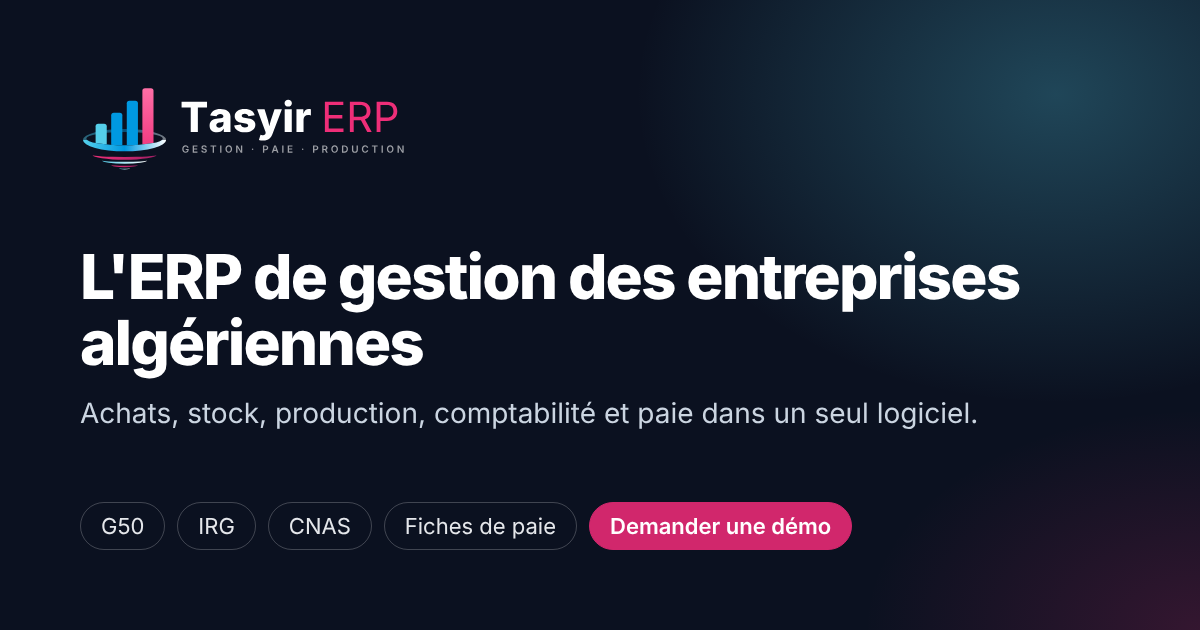
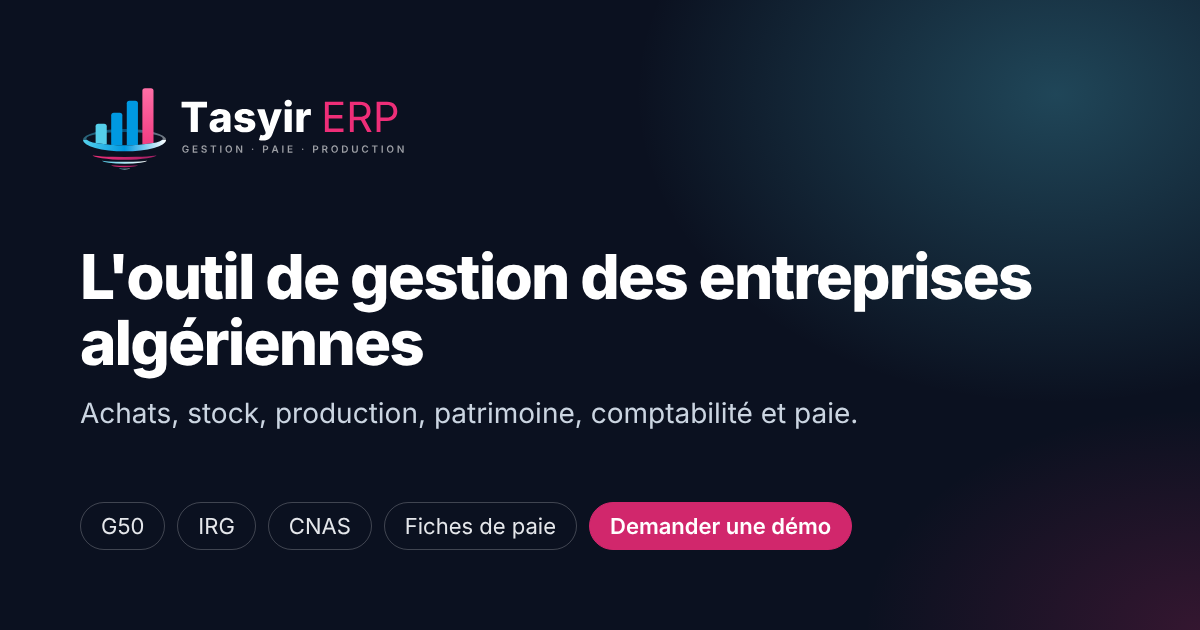
« L'outil de gestion des entreprises algériennes » et ajout du patrimoine
Titre principal, balise title, description Google, titre et description de partage, image Open Graph.

Claude-Session: https://claude.ai/code/session_014Hp9wdBxYdTzQ1qRTPQ2uS

Changed region(s): [[0.0925, 0.3921, 0.8633, 0.5127], [0.37, 0.6333, 0.8017, 0.6937]]

diff --git a/public/index.html b/public/index.html
@@ -3,8 +3,8 @@
 <head>
   <meta charset="utf-8">
   <meta name="viewport" content="width=device-width, initial-scale=1, viewport-fit=cover">
-  <title>Tasyir ERP – L'ERP de gestion des entreprises algériennes</title>
-  <meta name="description" content="L'ERP de gestion des entreprises algériennes : achats, stock, production, compta et paie. G50, IRG et CNAS générés automatiquement. Utilisé par El Afia Catering.">
+  <title>Tasyir ERP – L'outil de gestion des entreprises algériennes</title>
+  <meta name="description" content="L'outil de gestion des entreprises algériennes : achats, stock, production, patrimoine, compta et paie. G50, IRG et CNAS automatiques. Utilisé par El Afia Catering.">
   <link rel="canonical" href="https://tasyirerp.com/">
   <link rel="alternate" hreflang="fr-DZ" href="https://tasyirerp.com/">
   <link rel="alternate" hreflang="x-default" href="https://tasyirerp.com/">
@@ -17,8 +17,8 @@
   <meta property="og:locale" content="fr_DZ">
   <meta property="og:site_name" content="Tasyir ERP">
   <meta property="og:url" content="https://tasyirerp.com/">
-  <meta property="og:title" content="Tasyir ERP – L'ERP de gestion des entreprises algériennes">
-  <meta property="og:description" content="Achats, stock, production, comptabilité et paie dans un seul logiciel. G50, IRG et CNAS générés automatiquement.">
+  <meta property="og:title" content="Tasyir ERP – L'outil de gestion des entreprises algériennes">
+  <meta property="og:description" content="Achats, stock, production, patrimoine, comptabilité et paie dans un seul logiciel. G50, IRG et CNAS générés automatiquement.">
   <meta property="og:image" content="https://tasyirerp.com/assets/og/tasyir-erp-og.png">
   <meta property="og:image:width" content="1200">
   <meta property="og:image:height" content="630">
@@ -137,8 +137,8 @@
     <section class="hero" aria-labelledby="hero-titre">
       <div class="wrap hero__intro" data-enter>
         <p class="eyebrow"><span class="eyebrow__dot" aria-hidden="true"></span>Conforme G50, IRG et CNAS</p>
-        <h1 id="hero-titre">L'ERP de gestion des entreprises algériennes</h1>
-        <p class="lead">Achats, stock, production, comptabilité et paie dans un seul logiciel, conforme à la réglementation algérienne. La G50, l'IRG, la CNAS et les fiches de paie sont générées automatiquement.</p>
+        <h1 id="hero-titre">L'outil de gestion des entreprises algériennes</h1>
+        <p class="lead">Achats, stock, production, patrimoine, comptabilité et paie dans un seul logiciel, conforme à la réglementation algérienne. La G50, l'IRG, la CNAS et les fiches de paie sont générées automatiquement.</p>
         <div class="btn-row">
           <a class="btn btn--primary btn--lg" href="#demo">Demander une démo
             <svg class="arrow" viewBox="0 0 16 16" width="16" height="16" aria-hidden="true"><path d="M3 8h10M9 4l4 4-4 4" fill="none" stroke="currentColor" stroke-width="1.8" stroke-linecap="round" stroke-linejoin="round"/></svg>
